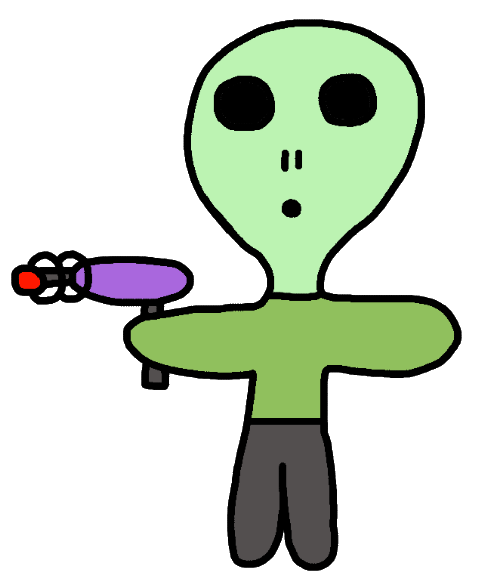
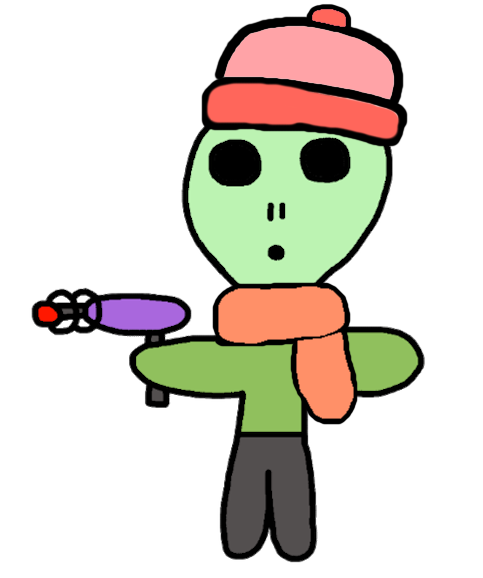
Update Bridging the Gap art (v0.7.1)
New art for Frozen Alien Invader, Sloshing Ooze and Surveying Sage.

Changed region(s): [[0.0, 0.0, 0.9627, 0.9965]]

diff --git a/src/version.ts b/src/version.ts
@@ -10,11 +10,12 @@
  *   Fairies), plus fixes since.
  * 0.7.0: Bridging the Gap (28 basic units, three of them reworked older cards), Hidden Avatars renamed Rival Kingdoms,
  *   the card changes and rules updates from the November 2026 notes.
+ * 0.7.1: art fixes for Bridging the Gap.
  * BUILD_ID: made automatically from all of the game's code and card data (see vite.config.ts), so two copies with any
  * rules difference never match even if GAME_VERSION wasn't bumped. The dev server makes it when it starts, so restart
  * it after editing to get the new fingerprint.
  */
-export const GAME_VERSION = '0.7.0';
+export const GAME_VERSION = '0.7.1';
 
 declare const __BUILD_ID__: string;
 export const BUILD_ID: string = typeof __BUILD_ID__ === 'string' ? __BUILD_ID__ : 'unknown';
